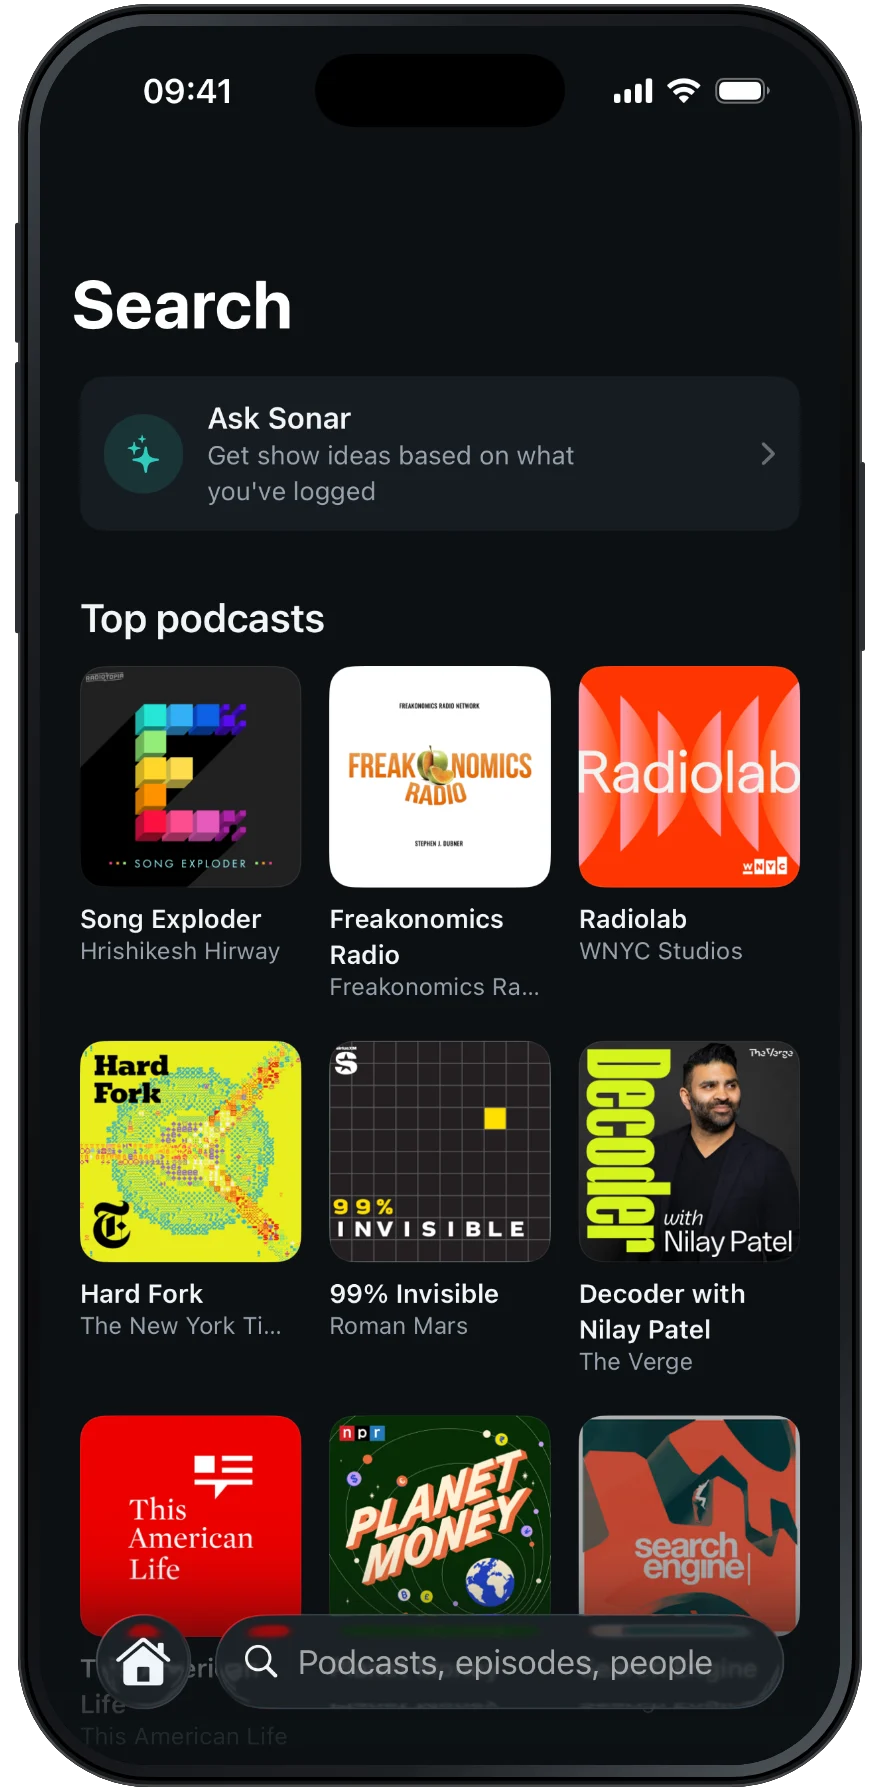
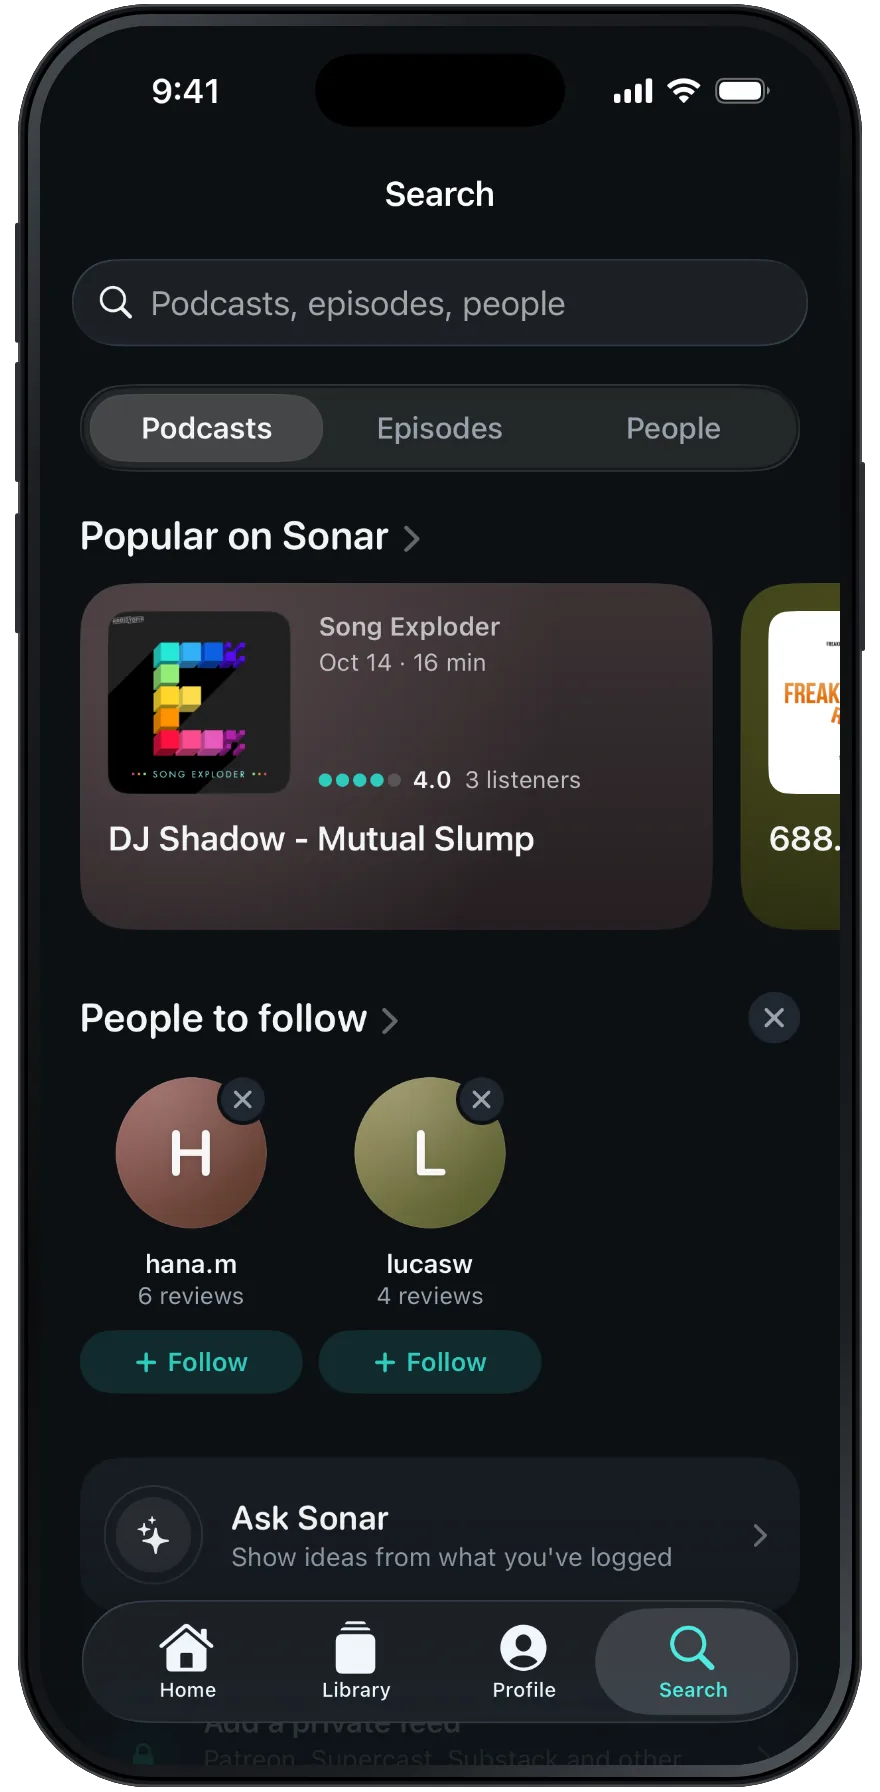
Sonar page: screenshots from the current app
Every phone, both lifted cards and the link preview are re-rendered from
today's build of Sonar (marketing kit in Jerenemy/sonar#263). The profile
card is now the ratings strip that leads every profile, so its size
changed. Alt text and the search line follow the new screens.

diff --git a/app/templates/works/sonar/sonar.html b/app/templates/works/sonar/sonar.html
@@ -103,7 +103,7 @@
       {{ phone("home", "", "sn-phone--hero sn-phone--left") }}
       {{ phone("review", "", "sn-phone--hero sn-phone--right") }}
       {{ phone("friends", "Sonar's Friends feed: the episodes your friends rated, each with their score in dots and a heart for the ones they loved.", "sn-phone--hero sn-phone--front") }}
-      <img class="sn-card sn-card--hero" src="{{ img }}crop-friend.webp" alt="" width="1126" height="350">
+      <img class="sn-card sn-card--hero" src="{{ img }}crop-friend.webp" alt="" width="1126" height="410">
     </div>
   </header>
 
@@ -126,7 +126,7 @@
       </ul>
     </div>
     <div class="sn-feat__media" data-reveal>
-      {{ phone("home", "Sonar's home: episodes for you, recently listened to, and what friends rated.") }}
+      {{ phone("home", "Sonar's home: what friends are listening to, new episodes from shows you follow, and episodes picked for you.") }}
     </div>
   </section>
 
@@ -137,7 +137,7 @@
       <p class="sn-body">Write a line or a page about any episode. Friends can love your review and reply to it, and you can answer theirs.</p>
     </div>
     <div class="sn-feat__media" data-reveal>
-      {{ phone("review", "A review in Sonar: a rating in dots, the episode it is about, and replies underneath.") }}
+      {{ phone("review", "A review in Sonar: a rating in dots, timestamps that jump to that moment in the episode, and replies underneath.") }}
     </div>
   </section>
 
@@ -171,8 +171,8 @@
       </dl>
     </div>
     <div class="sn-feat__media" data-reveal>
-      {{ phone("profile", "A Sonar profile: followers, a 12-day streak, a monthly recap, a diary and favorite shows.") }}
-      <img class="sn-card sn-card--c" src="{{ img }}crop-stats.webp" alt="Ratings: an average of 3.2 and a histogram of every score given." width="1126" height="480" loading="lazy">
+      {{ phone("profile", "A Sonar profile: followers, a histogram of every rating given, favorite shows and recent episodes rated in dots.") }}
+      <img class="sn-card sn-card--c" src="{{ img }}crop-stats.webp" alt="Ratings: a 3.2 average from 16 ratings, with a histogram of how they spread from one dot to five." width="1126" height="210" loading="lazy">
     </div>
   </section>
 
@@ -180,10 +180,10 @@
     <div class="sn-feat__copy" data-reveal>
       <p class="sn-kicker">Discover</p>
       <h2 class="sn-h2" id="search-h">Search <em>every show.</em></h2>
-      <p class="sn-body">Sonar searches the open Podcast Index catalog, millions of shows. Look up podcasts, episodes and people, or browse Top podcasts for something new.</p>
+      <p class="sn-body">Sonar searches the open Podcast Index catalog, millions of shows. Look up podcasts, episodes and people, or see what's popular on Sonar.</p>
     </div>
     <div class="sn-feat__media" data-reveal>
-      {{ phone("search", "Sonar's search: a grid of top podcasts, with a search bar for podcasts, episodes and people.") }}
+      {{ phone("search", "Sonar's search: popular episodes and people to follow, under a search bar for podcasts, episodes and people.") }}
     </div>
   </section>
 
